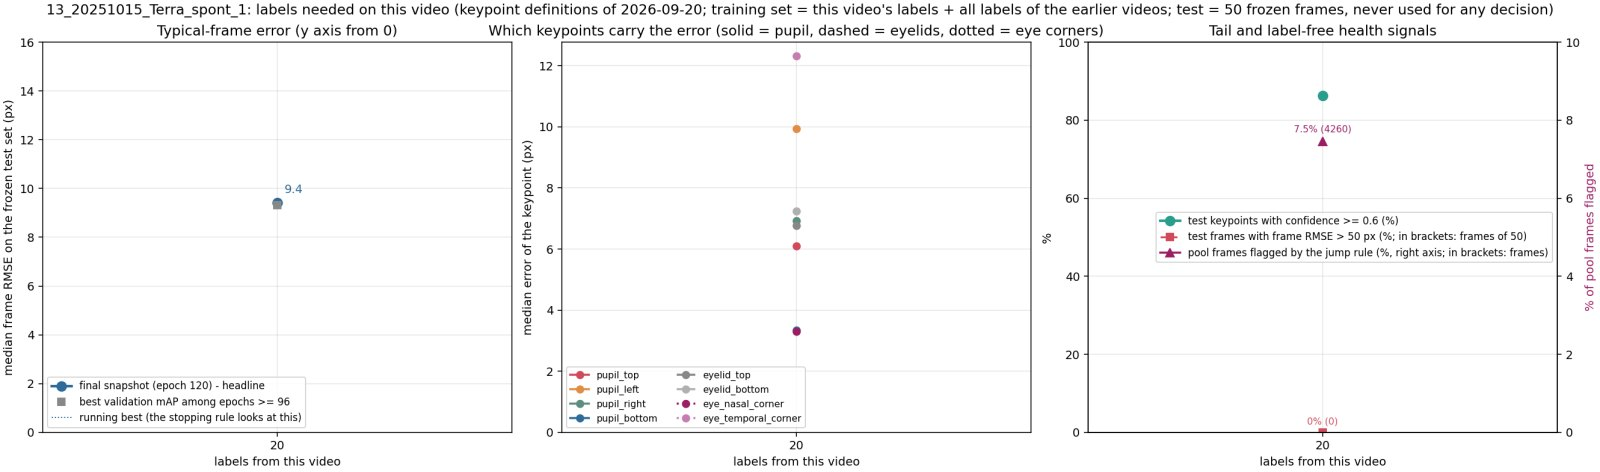
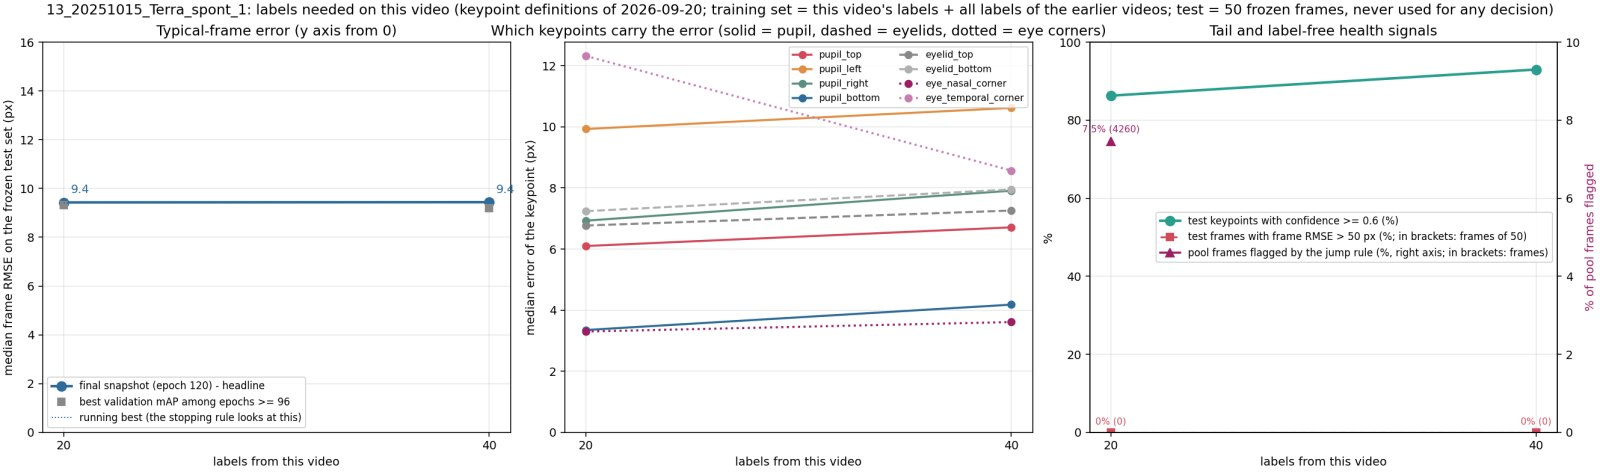
Video 13 step 2: 40 labels 9.44 px (one flat step against 9.43)

diff --git a/report/index.html b/report/index.html
@@ -78,7 +78,7 @@ math[display="block"]{margin:10px 0 6px;text-align:left;overflow-x:auto;max-widt
 
 <header>
   <h1><span lang="zh">小鼠眼睛关键点追踪：做了什么，结果是什么</span><span lang="en">Mouse eye keypoint tracking: what was done and what came out</span></h1>
-  <p class="muted small">Zhiheng Li (University of Minnesota), Kaiwen Sheng (Stanford) · <span lang="zh">页面生成时间</span><span lang="en">page built</span> 2026-10-05 20:43 · <a href="https://github.com/ZhihengLi0/mouse-behavior-tracking">GitHub: ZhihengLi0/mouse-behavior-tracking</a></p>
+  <p class="muted small">Zhiheng Li (University of Minnesota), Kaiwen Sheng (Stanford) · <span lang="zh">页面生成时间</span><span lang="en">page built</span> 2026-10-05 22:43 · <a href="https://github.com/ZhihengLi0/mouse-behavior-tracking">GitHub: ZhihengLi0/mouse-behavior-tracking</a></p>
 
   <div class="text" lang="zh">
     <p><b>任务：</b>用 DeepLabCut 在小鼠眼睛视频的每一帧上找 8 个点：瞳孔上、下、左、右，上眼睑、下眼睑，鼻侧眼角、颞侧眼角。由这 8 个点得到瞳孔大小、眼睛睁开程度和眨眼，之后与脑记录对齐。</p>
@@ -105,7 +105,7 @@ math[display="block"]{margin:10px 0 6px;text-align:left;overflow-x:auto;max-widt
       <li><b>瞳孔面积怎么算？</b>按 2026 年 9 月 20 日明确的定义，瞳孔四个点都是椭圆端点，在 12 个视频的 594 帧测试帧上，四点法的面积误差中位数是 6.6%，三点法是 8.3%；视频 4 和 8 上面积仍然不准（第 9 步）。</li>
       <li><b>眨眼怎么判断？</b>还没有结果：眨眼的定义和真值还没有定。目前只有一个初步观察：瞳孔四个点的平均置信度低于 0.527，可以找出人工把四个瞳孔点都留空的帧（28 帧里 27 帧，其余帧误报 4.1%），但留空的帧不等于眨眼（第 10 步）。</li>
     </ol>
-    <p><b>进度：</b>已完成 13 个视频（视频 0–12）；视频 13 进行中，按 0 / 20 / 40 / … 帧的误差为 69.13 / 9.43 px。</p>
+    <p><b>进度：</b>已完成 13 个视频（视频 0–12）；视频 13 进行中，按 0 / 20 / 40 / … 帧的误差为 69.13 / 9.43 / 9.44 px。</p>
   </div>
   <div class="text" lang="en">
     <p><b>Task:</b> DeepLabCut finds 8 points on every frame of a mouse-eye video: pupil top, bottom, left, right; upper and lower eyelid; nasal and temporal eye corner. From these we get pupil size, eye opening and blinks, to be aligned with brain recordings later.</p>
@@ -132,7 +132,7 @@ math[display="block"]{margin:10px 0 6px;text-align:left;overflow-x:auto;max-widt
       <li><b>How to compute the pupil area?</b> Under the definitions made explicit on 2026-09-20 all four pupil points are ellipse endpoints, and on the 594 test frames of 12 videos the four-point area has a median error of 6.6% against 8.3% for the three-point rule; on videos 4 and 8 the area is still not accurate (step 9).</li>
       <li><b>How to detect blinks?</b> No result yet: the definition of a blink and its truth are not fixed. Only a preliminary observation so far: a mean confidence of the four pupil points below 0.527 finds the frames in which the labeler left all four pupil points empty (27 of 28, with 4.1% of the other frames flagged), but an empty frame is not the same as a blink (step 10).</li>
     </ol>
-    <p><b>Status:</b> 13 videos finished (videos 0–12); video 13 in progress, error at 0 / 20 / 40 / … labels: 69.13 / 9.43 px.</p>
+    <p><b>Status:</b> 13 videos finished (videos 0–12); video 13 in progress, error at 0 / 20 / 40 / … labels: 69.13 / 9.43 / 9.44 px.</p>
   </div>
 
   <div class="text" lang="zh">
@@ -619,7 +619,7 @@ math[display="block"]{margin:10px 0 6px;text-align:left;overflow-x:auto;max-widt
 <tr><td>10</td><td>Pluto<br>2025-10-22</td><td>500</td><td>18.13 / 11.83 / 10.32 / 10.49 / 10.76</td><td><span lang="zh"><b>40 帧，10.32 px</b></span><span lang="en"><b>40 labels, 10.32 px</b></span></td><td>80</td><td>40</td></tr>
 <tr><td>11</td><td>Terra<br>2025-10-17</td><td>540</td><td>25.96 / 9.24 / 8.86 / 8.77 / 8.65</td><td><span lang="zh"><b>40 帧，8.86 px</b></span><span lang="en"><b>40 labels, 8.86 px</b></span></td><td>80</td><td>40</td></tr>
 <tr><td>12</td><td>Terra<br>2025-10-16</td><td>580</td><td>5.13 / 5.77 / 5.84</td><td><span lang="zh"><b>0 帧，5.13 px</b></span><span lang="en"><b>0 labels, 5.13 px</b></span></td><td>40</td><td>0</td></tr>
-<tr><td>13</td><td>Terra<br>2025-10-15</td><td>580</td><td>69.13 / 9.43</td><td><span lang="zh">进行中（目前最好：20 帧，9.43 px）</span><span lang="en">in progress (best so far: 20 labels, 9.43 px)</span></td><td>20</td><td>–</td></tr>
+<tr><td>13</td><td>Terra<br>2025-10-15</td><td>580</td><td>69.13 / 9.43 / 9.44</td><td><span lang="zh">进行中（目前最好：20 帧，9.43 px）</span><span lang="en">in progress (best so far: 20 labels, 9.43 px)</span></td><td>40</td><td>–</td></tr>
       </tbody>
     </table>
   </div>

diff --git a/report/index_en.html b/report/index_en.html
@@ -75,7 +75,7 @@ math[display="block"]{margin:10px 0 6px;text-align:left;overflow-x:auto;max-widt
 
 <header>
   <h1><span lang="en">Mouse eye keypoint tracking: what was done and what came out</span></h1>
-  <p class="muted small">Zhiheng Li (University of Minnesota), Kaiwen Sheng (Stanford) · <span lang="en">page built</span> 2026-10-05 20:43 · <a href="https://github.com/ZhihengLi0/mouse-behavior-tracking">GitHub: ZhihengLi0/mouse-behavior-tracking</a></p>
+  <p class="muted small">Zhiheng Li (University of Minnesota), Kaiwen Sheng (Stanford) · <span lang="en">page built</span> 2026-10-05 22:43 · <a href="https://github.com/ZhihengLi0/mouse-behavior-tracking">GitHub: ZhihengLi0/mouse-behavior-tracking</a></p>
 
   
   <div class="text" lang="en">
@@ -103,7 +103,7 @@ math[display="block"]{margin:10px 0 6px;text-align:left;overflow-x:auto;max-widt
       <li><b>How to compute the pupil area?</b> Under the definitions made explicit on 2026-09-20 all four pupil points are ellipse endpoints, and on the 594 test frames of 12 videos the four-point area has a median error of 6.6% against 8.3% for the three-point rule; on videos 4 and 8 the area is still not accurate (step 9).</li>
       <li><b>How to detect blinks?</b> No result yet: the definition of a blink and its truth are not fixed. Only a preliminary observation so far: a mean confidence of the four pupil points below 0.527 finds the frames in which the labeler left all four pupil points empty (27 of 28, with 4.1% of the other frames flagged), but an empty frame is not the same as a blink (step 10).</li>
     </ol>
-    <p><b>Status:</b> 13 videos finished (videos 0–12); video 13 in progress, error at 0 / 20 / 40 / … labels: 69.13 / 9.43 px.</p>
+    <p><b>Status:</b> 13 videos finished (videos 0–12); video 13 in progress, error at 0 / 20 / 40 / … labels: 69.13 / 9.43 / 9.44 px.</p>
   </div>
 
   
@@ -498,7 +498,7 @@ math[display="block"]{margin:10px 0 6px;text-align:left;overflow-x:auto;max-widt
 <tr><td>10</td><td>Pluto<br>2025-10-22</td><td>500</td><td>18.13 / 11.83 / 10.32 / 10.49 / 10.76</td><td><span lang="en"><b>40 labels, 10.32 px</b></span></td><td>80</td><td>40</td></tr>
 <tr><td>11</td><td>Terra<br>2025-10-17</td><td>540</td><td>25.96 / 9.24 / 8.86 / 8.77 / 8.65</td><td><span lang="en"><b>40 labels, 8.86 px</b></span></td><td>80</td><td>40</td></tr>
 <tr><td>12</td><td>Terra<br>2025-10-16</td><td>580</td><td>5.13 / 5.77 / 5.84</td><td><span lang="en"><b>0 labels, 5.13 px</b></span></td><td>40</td><td>0</td></tr>
-<tr><td>13</td><td>Terra<br>2025-10-15</td><td>580</td><td>69.13 / 9.43</td><td><span lang="en">in progress (best so far: 20 labels, 9.43 px)</span></td><td>20</td><td>–</td></tr>
+<tr><td>13</td><td>Terra<br>2025-10-15</td><td>580</td><td>69.13 / 9.43 / 9.44</td><td><span lang="en">in progress (best so far: 20 labels, 9.43 px)</span></td><td>40</td><td>–</td></tr>
       </tbody>
     </table>
   </div>

diff --git a/README.md b/README.md
@@ -26,7 +26,7 @@ per-frame predictions stay local; git carries code, documentation and audited ag
 | Finished | **video 10** (Pluto, 2025-10-22, the last Pluto video of the sequence): test50 / val20 / batch01 pre-labeled with the video-9 80-label model (1014) and corrected by the labeler (test50: 234 of 400 points moved), test set frozen; 0 labels (model 1014) = 18.13 px (p90 32.0, 8% of frames > 50 px), 20 labels = 11.83 px (p90 27.7, 2% > 50 px), 40 labels = 10.32 px (p90 26.1, 92% of keypoints with confidence >= 0.6), 60 labels = 10.49 px (p90 27.2, 8% > 50 px; no gain over 10.32), 80 labels = 10.76 px (p90 188.7, 12% > 50 px; no gain): the plateau rule fired at 80 (two steps without a gain on 10.32), finished at **40 labels, 10.32 px** (user decision 2026-10-03) |
 | Finished | **video 11** (Terra = mouse C, 2025-10-17, the first video of a new mouse): test50 / val20 / batch01 pre-labeled with the video-10 40-label model (1112) and corrected by the labeler (test50: 249 of 400 points moved), test set frozen; 0 labels (model 1112) = 25.96 px (p90 80.1, 16% of frames > 50 px), 20 labels = 9.24 px (p90 166.4, 20% of frames > 50 px), 40 labels = 8.86 px (p90 17.5, 4% of frames > 50 px, 94% of keypoints with confidence >= 0.6; 4.1% better on the median), 60 labels = 8.77 px (p90 12.9, 2% of frames > 50 px, 97% confidence; 1.0% better than 8.86, a flat step), 80 labels = 8.65 px (p90 13.1, 2% > 50 px, 98% confidence; 1.4% better, a second flat step): the plateau rule fired at 80, finished at **40 labels, 8.86 px** (user decision 2026-10-04). Training set of every step = 540 carried labels of videos 0-10 + this video's labels; shuffles 1211, 1212, ... |
 | Finished | **video 12** (Terra, 2025-10-16, second video of mouse C): test50 / val20 / batch01 pre-labeled with the video-11 40-label model (1212) and corrected by the labeler (test50: 110 of 400 points moved), test set frozen; 0 labels (model 1212) = 5.13 px, 20 labels = 5.77 px, 40 labels = 5.84 px (0% of frames > 50 px at every step): no step improves the 0-label number, the plateau rule fired at 40, finished with the plateau at **0 labels, 5.13 px** (user decision 2026-10-04 21:29); no labels carried |
-| In progress | **video 13** (Terra, 2025-10-15): test50 / val20 / batch01 extracted and pre-labeled with model 1212 and corrected by the labeler (test50: 287 of 400 points moved), test set frozen; 0 labels (model 1212) = 69.13 px (p90 116.6, 56% of frames > 50 px): the model that fitted video 12 does not fit this day; 20 labels (shuffle 1411) = 9.43 px (p90 16.0, 0% of frames > 50 px, 86% of keypoints with confidence >= 0.6; 86% better than the 0-label number); batch 2 being selected (2026-10-05 00:50). Training set of every step = 580 carried labels of videos 0-11 + this video's labels; shuffles 1411, 1412, ... |
+| In progress | **video 13** (Terra, 2025-10-15): test50 / val20 / batch01 extracted and pre-labeled with model 1212 and corrected by the labeler (test50: 287 of 400 points moved), test set frozen; 0 labels (model 1212) = 69.13 px (p90 116.6, 56% of frames > 50 px): the model that fitted video 12 does not fit this day; 20 labels (shuffle 1411) = 9.43 px (p90 16.0, 0% of frames > 50 px, 86% of keypoints with confidence >= 0.6; 86% better than the 0-label number); 40 labels (shuffle 1412) = 9.44 px (p90 14.1, 0% > 50 px, 93% confidence; no gain over 9.43, one flat step by the rule); batch 3 being selected (2026-10-05 22:43). Training set of every step = 580 carried labels of videos 0-11 + this video's labels; shuffles 1411, 1412, ... |
 | Analysis (2026-10-04) | blink and pupil area on all 12 finished videos (`v2_new_pupil_top_video_scaling/results/blink_and_area/`): four-point area median error 6.6% (three-point 8.3%); closed eye best detected by the mean confidence of the four pupil points (27 of 28 closed frames, 4.1% of open frames flagged; the earlier rule flags 55.7%); area traces still contain tracking jumps not covered by the closure rule. Error and confidence per keypoint (`.../results/keypoint_confidence_error/`): pupil top is the least accurate point (10.9 px median) |
 | Next | Terra units 14-18, one recording day each, newest first |
 
@@ -49,7 +49,7 @@ Labels needed per video (plateau = two consecutive 20-label steps that improve t
 | 10 | Pluto, 2025-10-22 | 500 | 18.13 / 11.83 / 10.32 / 10.49 / 10.76 px (v2) | 40 labels, 10.3 px (rule fired at 80) |
 | 11 | Terra (mouse C), 2025-10-17 | 540 | 25.96 / 9.24 / 8.86 / 8.77 / 8.65 px (v2) | 40 labels, 8.9 px (rule fired at 80) |
 | 12 | Terra (mouse C), 2025-10-16 | 580 | 5.13 / 5.77 / 5.84 px (v2) | 0 labels, 5.1 px (rule fired at 40) |
-| 13 | Terra (mouse C), 2025-10-15 | 580 | 69.13 / 9.43 px (v2, in progress) | – |
+| 13 | Terra (mouse C), 2025-10-15 | 580 | 69.13 / 9.43 / 9.44 px (v2, in progress) | – |
 
 What the numbers say:
 

diff --git a/v2_new_pupil_top_video_scaling/results/README.md b/v2_new_pupil_top_video_scaling/results/README.md
@@ -25,7 +25,7 @@ snapshot with the best validation mAP after the first learning-rate drop (epochs
 | 10 `10_20251022_Pluto1` | mouse B, 19.9 min, 2025-10-22 | 500 (videos 0-3 + 40 of video 4 + 20 each of videos 5, 6, 8 + 80 of video 9) | convention v2: 18.13 / 11.83 / 10.32 / 10.49 / 10.76 | **40 labels** (rule fired at 80; user decision 2026-10-03) | 10.32 px |
 | 11 `11_20251017_Terra_spont_1` | mouse C (Terra), 19.9 min, 2025-10-17 | 540 (videos 0-3 + 40 of video 4 + 20 each of videos 5, 6, 8 + 80 of video 9 + 40 of video 10) | convention v2: 25.96 / 9.24 / 8.86 / 8.77 / 8.65 | **40 labels** (rule fired at 80; user decision 2026-10-04) | 8.86 px |
 | 12 `12_20251016_Terra_spont_2` | mouse C (Terra), 19.9 min, 2025-10-16 | 580 (as for video 11 + 40 of video 11) | convention v2: 5.13 (0 labels; biased low by the pre-labels; see the video's README) / 5.77 / 5.84 | **0 labels** (rule fired at 40; the video-11 model already fits) | 5.13 px |
-| 13 `13_20251015_Terra_spont_1` | mouse C (Terra), 19.9 min, 2025-10-15 | 580 (video 12 carries none) | convention v2: 69.13 / 9.43 | in progress | – |
+| 13 `13_20251015_Terra_spont_1` | mouse C (Terra), 19.9 min, 2025-10-15 | 580 (video 12 carries none) | convention v2: 69.13 / 9.43 / 9.44 | in progress (one flat step at 40) | – |
 
 `labels_to_plateau.png` / `labels_to_plateau.csv` (2026-09-30): the plateau point of every video in the sequence as one figure - labels needed (left) and the error at the plateau vs the 0-label error (right); `scripts/plot_labels_to_plateau.py`. The csv is the table above in machine-readable form and is updated when a video finishes.
 

diff --git a/v2_new_pupil_top_video_scaling/13_20251015_Terra_spont_1/results/README.md b/v2_new_pupil_top_video_scaling/13_20251015_Terra_spont_1/results/README.md
@@ -12,6 +12,7 @@ in total) + this video's labels; shuffles 1411, 1412, ...
 |---|---|---|---|---|---|
 | 0 (video-11 40-label model 1212, applied unchanged) | 69.13 px | 116.6 | 56% | 24% | – |
 | 20 (shuffle 1411) | 9.43 px | 16.0 | 0% | 86% | 4260 of 57158 (7.5%) |
+| 40 (shuffle 1412) | 9.44 px | 14.1 | 0% | 93% | pending |
 
 The model that fitted video 12 (the day after, 5.13 px) does not fit this day: 69 px at 0 labels, more than half of
 the test frames above 50 px. The other models of videos 11 and 12 give 31.5-79.4 px on this test set
@@ -21,3 +22,6 @@ the test frames above 50 px. The other models of videos 11 and 12 give 31.5-79.4
 training set otherwise as at the time: the 580 carried labels; shuffles 2131-2134). Size of the first batch only; no
 jump selection followed. So far: 5 labels = 10.46 / 16.03 px (subsets a / b; p90 30.4 / 68.4; 8% / 12% of frames > 50 px) against
 69.13 px at 0 labels and 9.43 px at 20; the two 10-label subsets are queued.
+
+Step 2 (40 labels): 9.44 px, no gain over the running best 9.43 px (step 1): one flat step by the rule (2026-10-05 22:43). The p90 improved
+from 16.0 to 14.1 px and the share of confident keypoints from 86% to 93%, but the median did not move.
